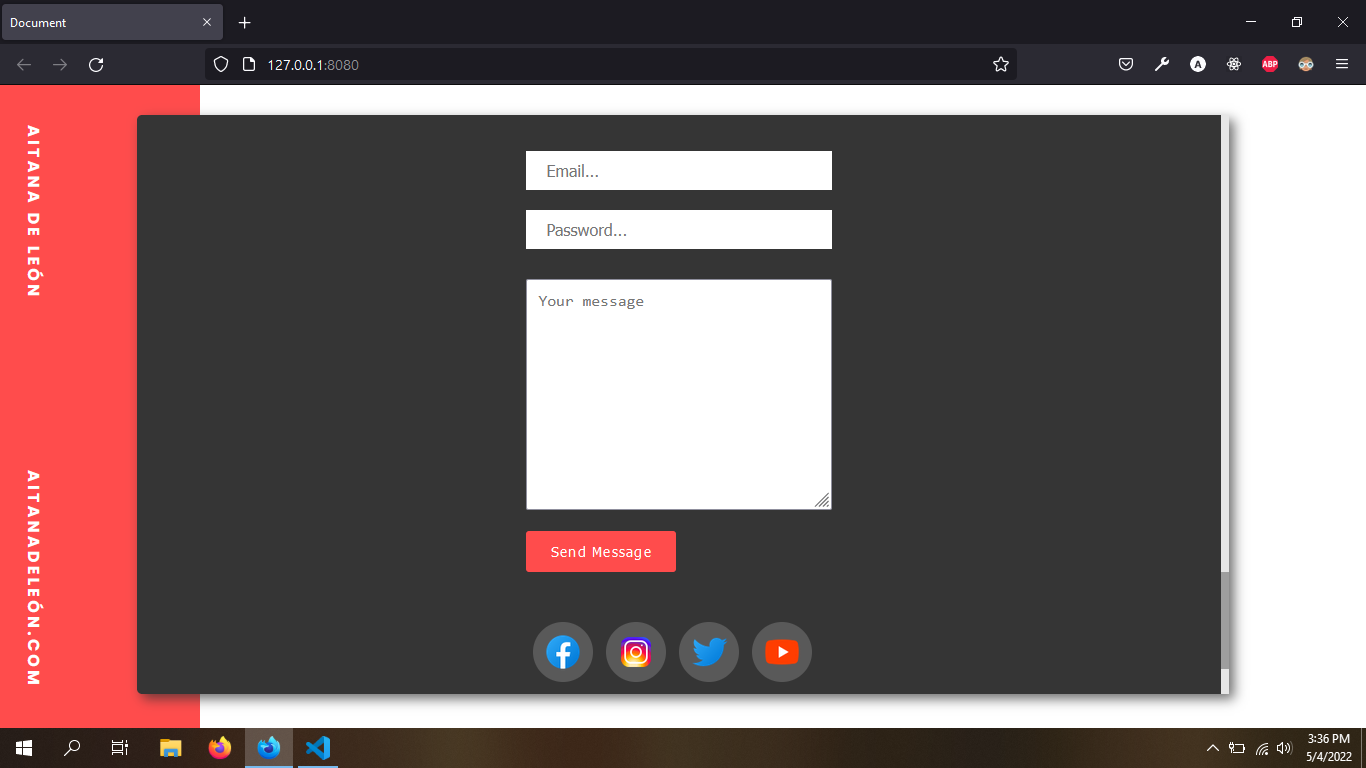
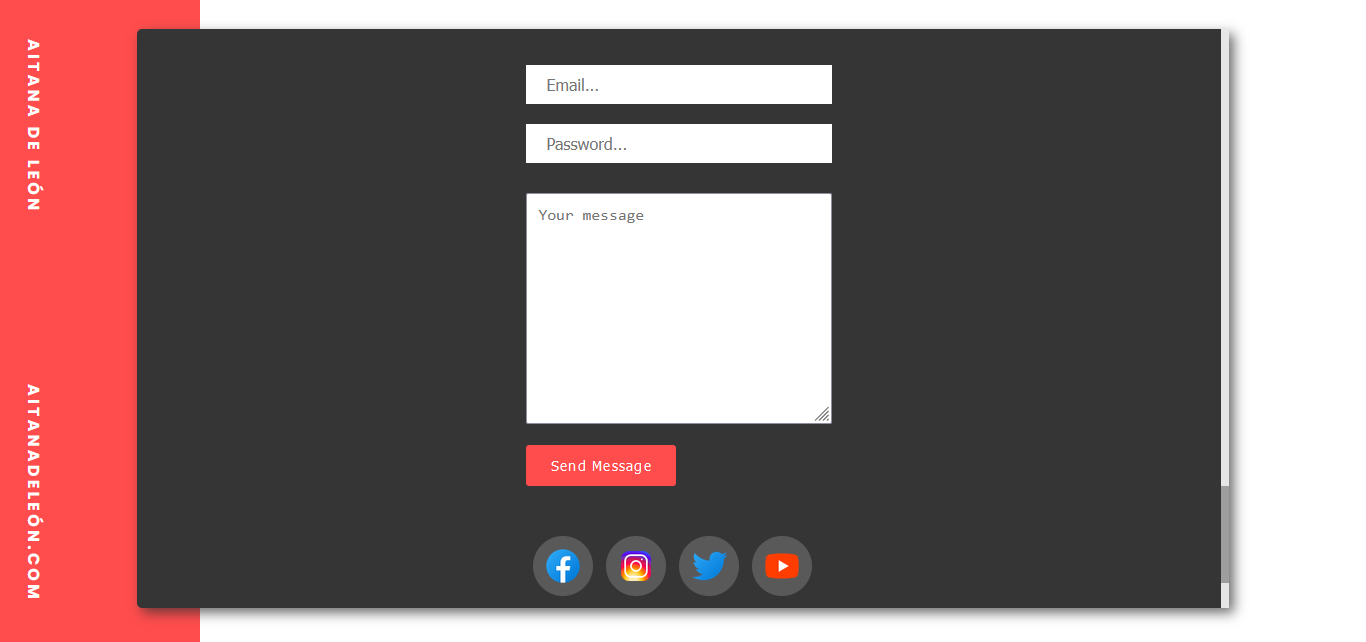
add gallery images

Changed region(s): [[0.0, 0.0, 1.0, 0.405], [0.0, 0.5919, 1.0, 1.0], [0.369, 0.6542, 0.6149, 0.7788]]

diff --git a/src/sass/App.css b/src/sass/App.css
@@ -268,6 +268,7 @@ body {
   background: -webkit-gradient(linear, left top, right top, from(#1a1a1a), to(#6b6b6b));
   background: linear-gradient(90deg, #1a1a1a, #6b6b6b);
   border-radius: 1rem;
+  overflow: hidden;
 }
 
 @media only screen and (max-width: 30em) {
@@ -317,8 +318,8 @@ body {
   display: grid;
   -ms-grid-columns: (1fr)[8];
       grid-template-columns: repeat(8, 1fr);
-  -ms-grid-rows: (5vw)[7];
-      grid-template-rows: repeat(7, 5vw);
+  -ms-grid-rows: (5vw)[8];
+      grid-template-rows: repeat(8, 5vw);
   grid-gap: 1rem;
 }
 
@@ -341,6 +342,29 @@ body {
   }
 }
 
+.gallery__project {
+  font-size: 2rem;
+  text-transform: uppercase;
+  background: -webkit-gradient(linear, left top, right top, from(black), to(#ee4a24));
+  background: linear-gradient(90deg, black, #ee4a24);
+  color: white;
+  display: -webkit-box;
+  display: -ms-flexbox;
+  display: flex;
+  -webkit-box-align: center;
+      -ms-flex-align: center;
+          align-items: center;
+  -webkit-box-pack: center;
+      -ms-flex-pack: center;
+          justify-content: center;
+  -ms-grid-column: 4;
+  -ms-grid-column-span: 2;
+  grid-column: 4 / 6;
+  -ms-grid-row: 4;
+  -ms-grid-row-span: 1;
+  grid-row: 4 / 5;
+}
+
 .gallery__img {
   overflow: hidden;
 }
@@ -348,8 +372,6 @@ body {
 .gallery__img img {
   width: 100%;
   height: 100%;
-  -o-object-fit: cover;
-     object-fit: cover;
   -webkit-transition: -webkit-transform 0.2s ease-out;
   transition: -webkit-transform 0.2s ease-out;
   transition: transform 0.2s ease-out;
@@ -366,8 +388,8 @@ body {
   -ms-grid-column-span: 3;
   grid-column: 1 / 4;
   -ms-grid-row: 1;
-  -ms-grid-row-span: 3;
-  grid-row: 1 / 4;
+  -ms-grid-row-span: 4;
+  grid-row: 1 / 5;
 }
 
 @media only screen and (max-width: 37.5em) {
@@ -422,8 +444,8 @@ body {
 .gallery__img--3 {
   grid-column: 6 / -1;
   -ms-grid-row: 1;
-  -ms-grid-row-span: 3;
-  grid-row: 1 / 4;
+  -ms-grid-row-span: 4;
+  grid-row: 1 / 5;
 }
 
 @media only screen and (max-width: 37.5em) {
@@ -450,7 +472,7 @@ body {
   -ms-grid-column: 1;
   -ms-grid-column-span: 4;
   grid-column: 1 / 5;
-  grid-row: 4 / -1;
+  grid-row: 5 / -1;
 }
 
 @media only screen and (max-width: 37.5em) {
@@ -475,7 +497,7 @@ body {
 
 .gallery__img--5 {
   grid-column: 5 / -1;
-  grid-row: 4 / -1;
+  grid-row: 5 / -1;
 }
 
 @media only screen and (max-width: 37.5em) {

diff --git a/src/sass/components/_popup.scss b/src/sass/components/_popup.scss
@@ -22,6 +22,7 @@
         justify-content: center;
         background: linear-gradient(90deg, #1a1a1a, #6b6b6b);
         border-radius: 1rem;
+        overflow: hidden;
 
         @media only screen and (max-width: 30em) {
             max-width: 100%;
@@ -66,7 +67,7 @@
 .gallery {
     display: grid;
     grid-template-columns: repeat(8, 1fr);
-    grid-template-rows: repeat(7, 5vw);
+    grid-template-rows: repeat(8, 5vw);
     grid-gap: 1rem;
   
     @media only screen and (max-width: 37.5em) {
@@ -79,6 +80,19 @@
       grid-template-columns: 1fr;
       grid-template-rows: repeat(14, 20rem);
     }
+
+    &__project {
+      font-size: 2rem;
+      text-transform: uppercase;
+      background: linear-gradient(90deg, $black-cl, $orange--2);
+      color: $white-cl;
+      display: flex;
+      align-items: center;
+      justify-content: center;
+
+      grid-column: 4 / 6;
+      grid-row: 4 / 5;
+    }
   
     &__img {
       overflow: hidden;
@@ -86,7 +100,7 @@
       & img {
         width: 100%;
         height: 100%;
-        object-fit: cover;
+        // object-fit: cover;
         transition: transform 0.2s ease-out;
       }
   
@@ -96,7 +110,7 @@
   
       &--1 {
         grid-column: 1 / 4;
-        grid-row: 1 / 4;
+        grid-row: 1 / 5;
   
         @media only screen and (max-width: 37.5em) {
           grid-column: 1 / 3;
@@ -124,7 +138,7 @@
       }
       &--3 {
         grid-column: 6 / -1;
-        grid-row: 1 / 4;
+        grid-row: 1 / 5;
   
         @media only screen and (max-width: 37.5em) {
           grid-column: 5 / 7;
@@ -138,7 +152,7 @@
       }
       &--4 {
         grid-column: 1 / 5;
-        grid-row: 4 / -1;
+        grid-row: 5 / -1;
   
         @media only screen and (max-width: 37.5em) {
           grid-column: 3 / 5;
@@ -152,7 +166,7 @@
       }
       &--5 {
         grid-column: 5 / -1;
-        grid-row: 4 / -1;
+        grid-row: 5 / -1;
   
         @media only screen and (max-width: 37.5em) {
           grid-column: 5 / 7;

diff --git a/src/components/PopUp.js b/src/components/PopUp.js
@@ -1,9 +1,6 @@
 import React from 'react';
 
-const PopUp = ({ showPopup, setShowPopup, showGalleryImages }) => {
-    console.log(showGalleryImages);
-    // const widnowSize = window.innerWidth;
-
+const PopUp = ({ showPopup, setShowPopup, showGalleryImages, projectName }) => {
     return (
         <div className={!showPopup ? "popup" : "popup popup__show"}>
             <div className="popup__window"> 
@@ -15,6 +12,7 @@ const PopUp = ({ showPopup, setShowPopup, showGalleryImages }) => {
                             </div>
                         ))
                     }
+                    <div className='gallery__project'>{projectName}</div>
                 </div>
             </div>
             <span className="popup__close" onClick={() => setShowPopup(false)}>
@@ -25,16 +23,3 @@ const PopUp = ({ showPopup, setShowPopup, showGalleryImages }) => {
 }
 
 export default PopUp;
-
-
-// {
-//     widnowSize > 600 ?
-//         <figure className="popup__img">
-//             <img src={showSliderImages[0]} alt="" />
-//         </figure>
-//         :
-
-//         <figure className="popup__img">
-//             <img src={showSliderImages[1]} alt="" />
-//         </figure>
-// }

diff --git a/src/components/Projects.js b/src/components/Projects.js
@@ -11,12 +11,16 @@ const Projects = () => {
     const [projectArr, setProjectArr] = useState(cardImages);
     const [projectImage, setProjectImage] = useState(projectImages)
     const [showGalleryImages, setShowGalleryImages] = useState([]);
+    const [projectName, setProjectName] = useState('');
     const [showPopup, setShowPopup] = useState(false);
     const numOfProjects = CardImages.length;
 
     const getProjectImage = (id) => {
+        setShowGalleryImages([...projectImages[id]]);
         setShowPopup(true);
-        return setShowGalleryImages([...projectImage[id]]);
+        const arrProjectName = cardImages.map(obj => obj.title);
+        setProjectName([...arrProjectName[id]]);
+        return;
     }
 
     return (
@@ -41,6 +45,7 @@ const Projects = () => {
                 showPopup={showPopup}
                 setShowPopup={setShowPopup}
                 showGalleryImages={showGalleryImages}
+                projectName={projectName}
             />
 
         </section>
